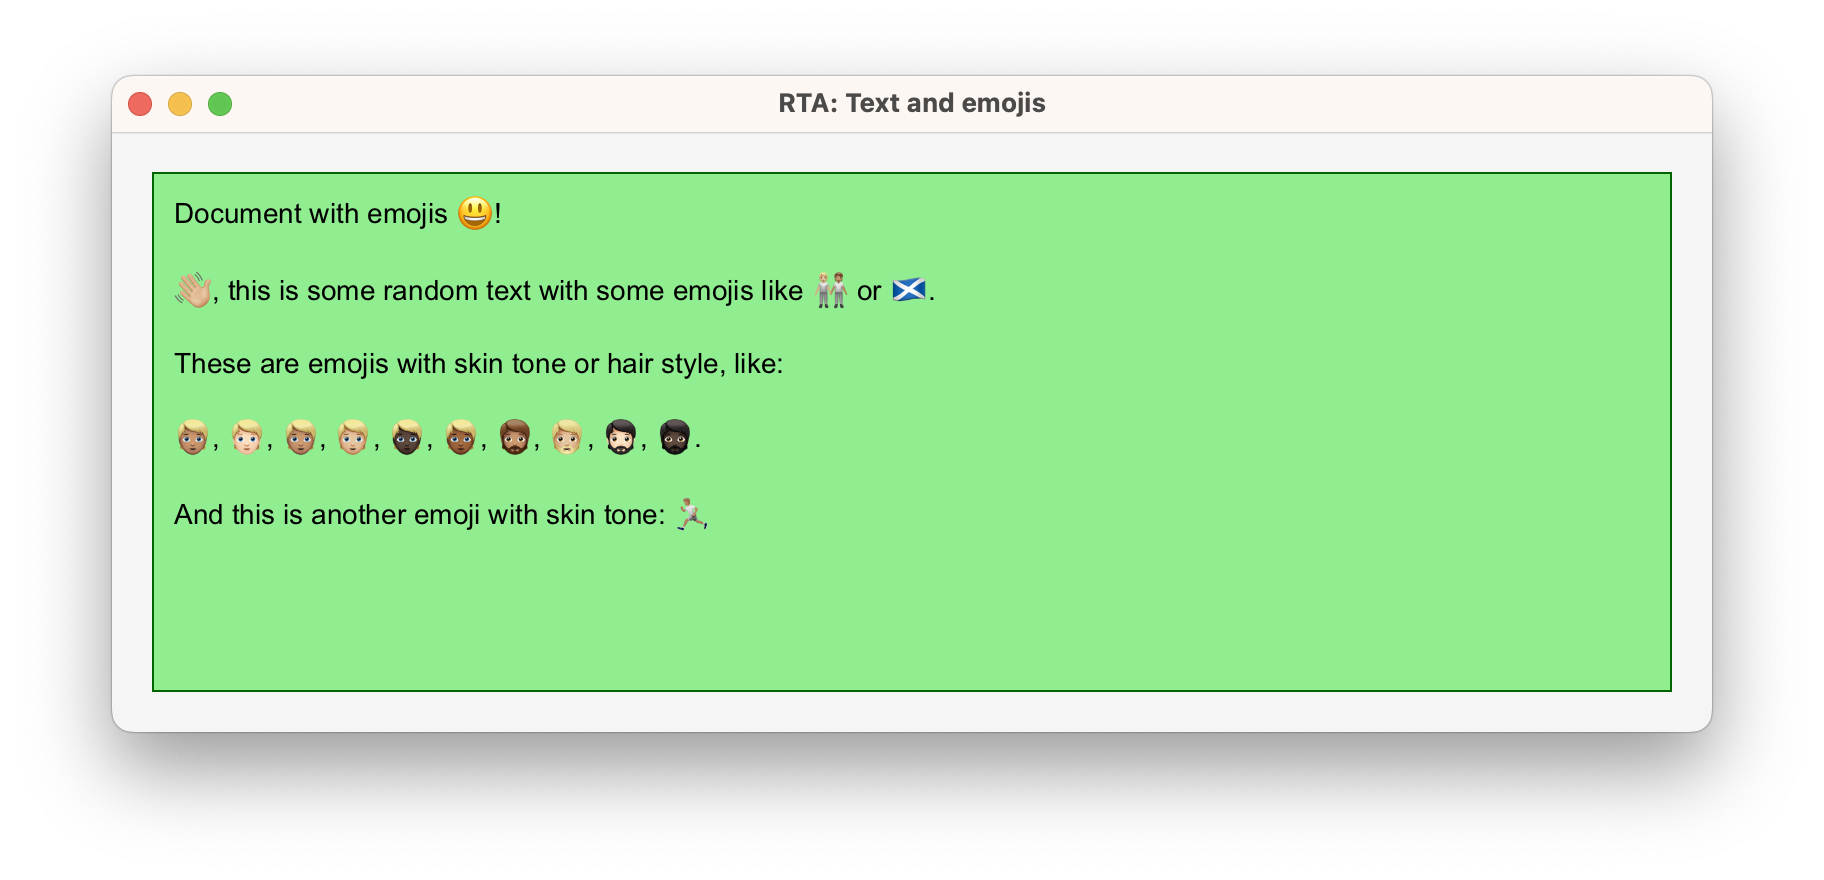
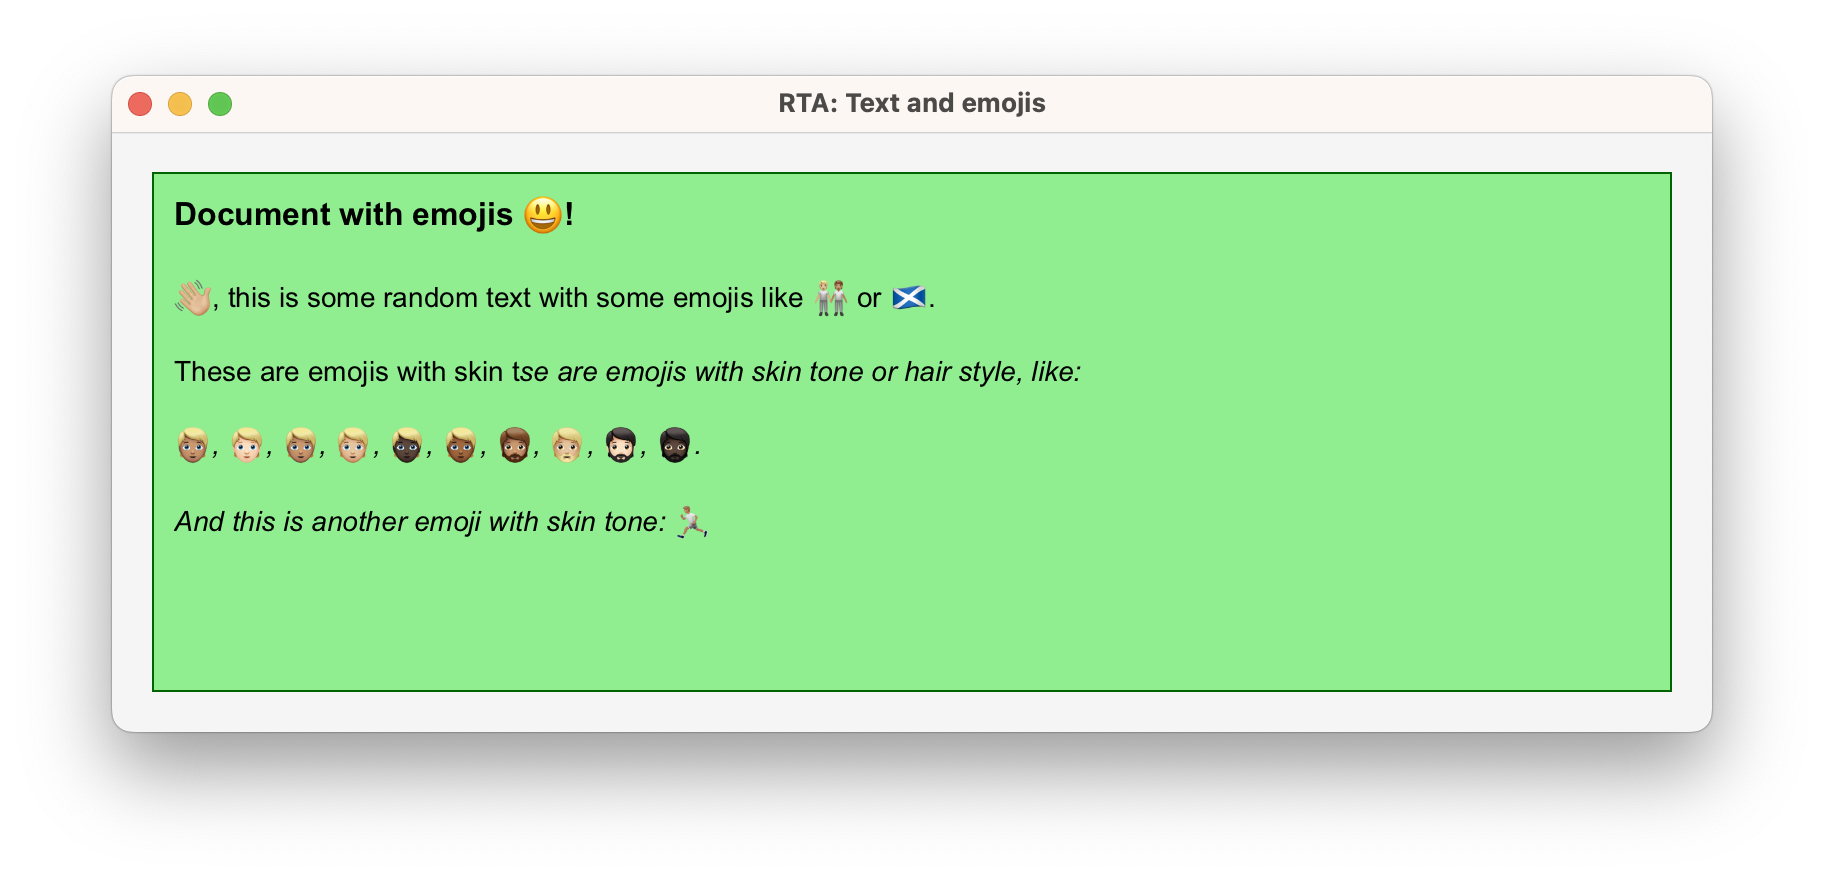
Fix issue with accumulated length and update EmojiDemo sample (#270)
* Fix issue with accumulated length and update EmojiDemo sample

* minor fix of toString method

diff --git a/samples/src/main/java/com/gluonhq/richtextarea/samples/EmojiDemo.java b/samples/src/main/java/com/gluonhq/richtextarea/samples/EmojiDemo.java
@@ -41,9 +41,11 @@ import javafx.scene.Scene;
 import javafx.scene.layout.BorderPane;
 import javafx.stage.Stage;
 
-import java.util.ArrayList;
 import java.util.List;
 import java.util.stream.Collectors;
+
+import static javafx.scene.text.FontPosture.ITALIC;
+import static javafx.scene.text.FontWeight.BOLD;
 
 /**
  * This basic sample shows how to use the RichTextArea control to render text and
@@ -54,16 +56,21 @@ import java.util.stream.Collectors;
  */
 public class EmojiDemo extends Application {
 
-    private static final String text =
-            "Document with emojis \ud83d\ude03!\n" +
+    private static final String title =
+            "Document with emojis \ud83d\ude03!\n";
+     private static final String text =
             "\uD83D\uDC4B\uD83C\uDFFC, this is some random text with some emojis " +
             "like \uD83E\uDDD1\uD83C\uDFFC\u200D\uD83E\uDD1D\u200D\uD83E\uDDD1\uD83C\uDFFD or " +
             "\uD83C\uDFF4\uDB40\uDC67\uDB40\uDC62\uDB40\uDC73\uDB40\uDC63\uDB40\uDC74\uDB40\uDC7F.\n" +
             "These are emojis with skin tone or hair style, like:\n";
 
-    private static final StringBuilder fullText = new StringBuilder(text);
+    private static final StringBuilder fullText = new StringBuilder(title + text);
     private static final TextDecoration preset =
             TextDecoration.builder().presets().fontFamily("Arial").fontSize(14).build();
+    private static final TextDecoration bold16 =
+            TextDecoration.builder().presets().fontFamily("Arial").fontWeight(BOLD).fontSize(16).build();
+    private static final TextDecoration italic =
+            TextDecoration.builder().presets().fontFamily("Arial").fontPosture(ITALIC).fontSize(14).build();
     private static final ParagraphDecoration parPreset =
             ParagraphDecoration.builder().presets().build();
 
@@ -99,10 +106,13 @@ public class EmojiDemo extends Application {
     }
 
     private List<DecorationModel> getDecorations() {
-        List<DecorationModel> decorations = new ArrayList<>();
-        // decoration for text
-        decorations.add(new DecorationModel(0, fullText.length(), preset, parPreset));
-        return decorations;
+        int titleLength = title.length();
+        int textLength = text.length();
+        int endLength = fullText.length() - textLength - titleLength;
+        return List.of(
+                new DecorationModel(0, titleLength, bold16, parPreset),
+                new DecorationModel(titleLength, textLength, preset, parPreset),
+                new DecorationModel(titleLength + textLength, endLength, italic, parPreset));
     }
 
 }

diff --git a/rta/src/main/java/com/gluonhq/richtextarea/model/PieceTable.java b/rta/src/main/java/com/gluonhq/richtextarea/model/PieceTable.java
@@ -77,13 +77,13 @@ public final class PieceTable extends AbstractTextBuffer {
         }
         this.originalText = new UnitBuffer(List.of());
         // For each decoration in the document:
+        AtomicInteger accum = new AtomicInteger(0);
         decorations.forEach(d -> {
-            // parse text that spans the decoration into units
+            // parse external text that spans the decoration into units
             UnitBuffer units = UnitBuffer.convertTextToUnits(text.substring(d.getStart(), d.getStart() + d.getLength()));
             if (units.isEmpty()) {
                 units.append(new TextUnit(""));
             }
-            AtomicInteger accum = new AtomicInteger(d.getStart());
             // For each unit present:
             units.getUnitList().forEach(unit -> {
                 originalText.append(unit);

diff --git a/rta/src/main/java/com/gluonhq/richtextarea/model/TextUnit.java b/rta/src/main/java/com/gluonhq/richtextarea/model/TextUnit.java
@@ -27,6 +27,8 @@
  */
 package com.gluonhq.richtextarea.model;
 
+import com.gluonhq.richtextarea.Tools;
+
 /**
  * String object that can be added to the PieceTable
  */
@@ -60,6 +62,6 @@ public class TextUnit implements Unit {
 
     @Override
     public String toString() {
-        return "TU{'" + (isEmpty() ? "" : text.replace("\n", "<n>")) + "'}";
+        return "TU{'" + (isEmpty() ? "" : Tools.formatTextWithAnchors(text)) + "'}";
     }
 }
